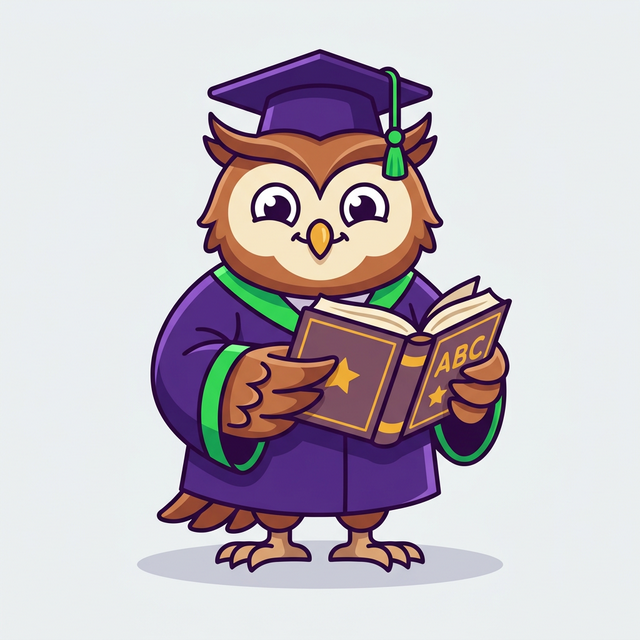
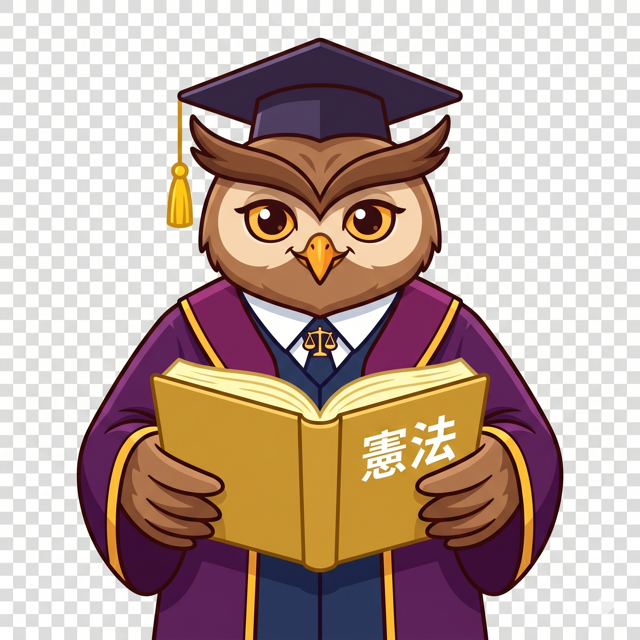
Export unified owl mascot assets

diff --git a/docs/design-assets/001-owl-mascot-unification.md b/docs/design-assets/001-owl-mascot-unification.md
@@ -148,3 +148,16 @@ The produced owl illustrations are visually cohesive and generally fit the reque
 ### Feedback Cycles
 
 - 2026-05-02T18:31:25Z — review rejected this cycle. Route back to `draft`: export/commit the cohesive owl assets at the specified filenames and dimensions, replace `public/owl.png` with the transparent 640x640 homepage owl, add `public/owl-past.png` and `public/owl-future.png` at 200x200, and optionally add `public/owl-avatar.png` at 112x112. Keep current visual direction while cropping/scaling for intended page contexts.
+
+## Stage Report: draft (cycle 2)
+
+- DONE: Designed asset files are present at the exact requested paths, filenames, dimensions, and transparent PNG format.
+  Exported with `sips -z`: `public/owl.png` from `public/owl_frontpage.png`, `public/owl-past.png` from `public/owl_past.png`, `public/owl-future.png` from `public/owl_future.png`, and optional `public/owl-avatar.png` from `public/owl_comment.png`; `file` reports each as PNG RGBA and `sips -g pixelWidth -g pixelHeight -g hasAlpha` reports 640x640/yes, 200x200/yes, 200x200/yes, and 112x112/yes respectively.
+- DONE: Asset exports preserve the cohesive Judge Owl identity while being cropped/scaled for homepage, T1, T3, and optional comment/avatar contexts.
+  Reused the current cohesive Judge Owl sources in `public/`: homepage book owl, T1 glasses/scroll owl, T3 gavel/cool crisis owl, and comment bust crop; the 200px T1/T3 exports keep the head, hat, robe, and prop readable for 80-100 CSS px use, and the 112px bust source is purpose-cropped for 56 CSS px avatar use.
+- DONE: Stage report cites concrete verification evidence for file paths, pixel dimensions, alpha/transparency, and any generation/export commands used.
+  Verification command: `for f in public/owl.png public/owl-past.png public/owl-future.png public/owl-avatar.png; do file "$f"; sips -g pixelWidth -g pixelHeight -g hasAlpha "$f"; done`; export command used `sips -z 640 640`, `sips -z 200 200`, `sips -z 200 200`, and `sips -z 112 112` against the corresponding source files.
+
+### Summary
+
+Replaced the old non-transparent homepage `public/owl.png` with the refined transparent Judge Owl export and added the requested hyphenated T1/T3 filenames. Also produced the optional 112x112 transparent avatar because the provided bust crop source was high enough quality for a sharp 56 CSS px comment icon.